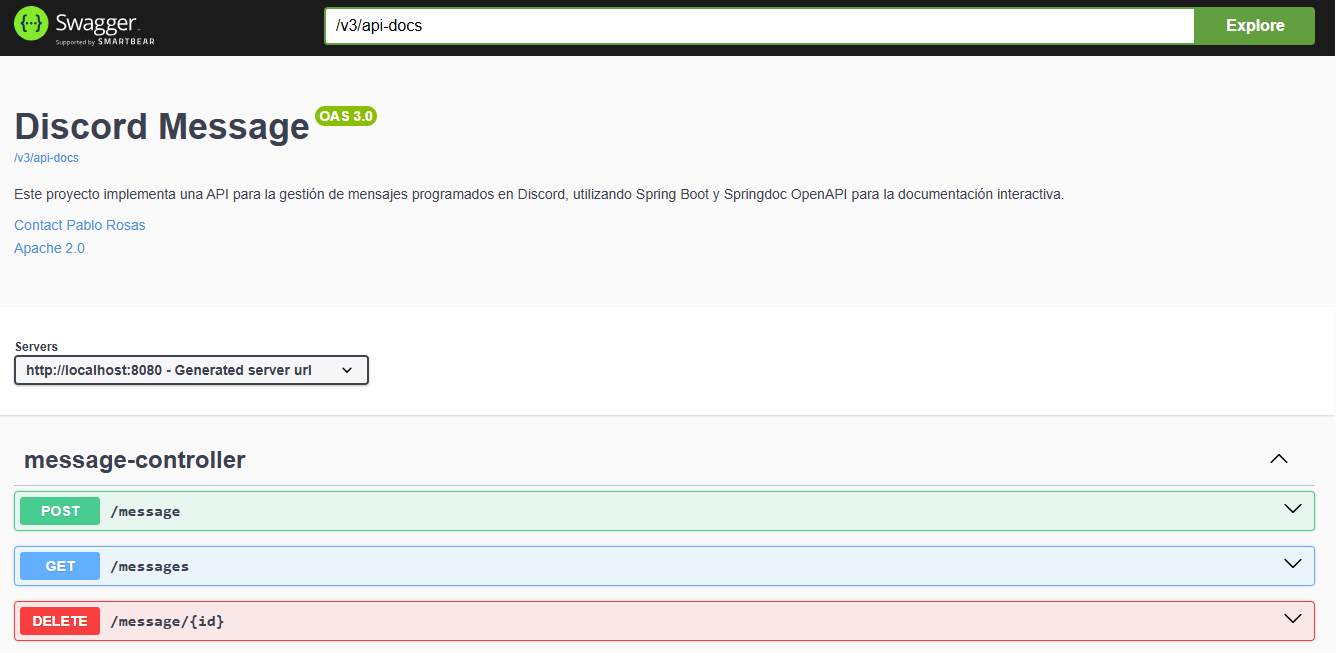
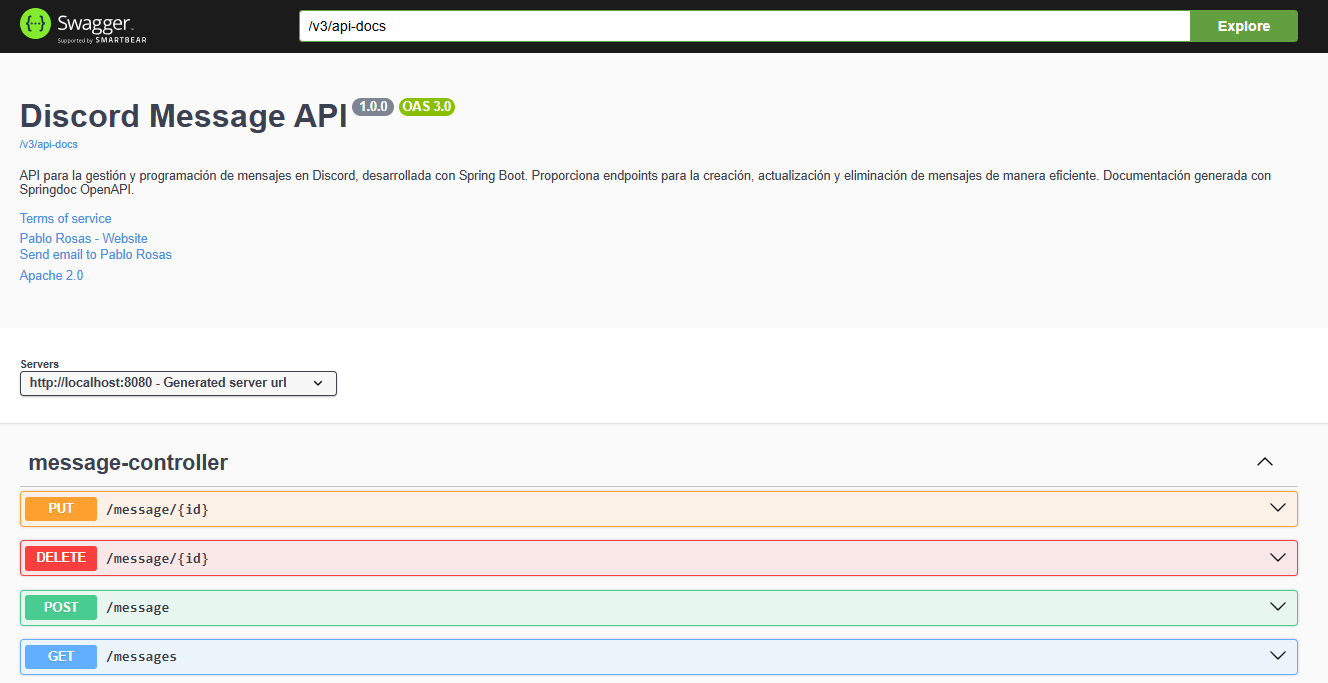
Editar Mensaje - Controller

diff --git a/src/main/resources/static/js/app.js b/src/main/resources/static/js/app.js
@@ -40,6 +40,7 @@ async function loadMessages() {
             <td>${msg.scheduledDate}</td>
             <td>
                 <button class="delete-btn" onclick="deleteMessage(${msg.id})">Eliminar</button>
+
             </td>
         `;
 
@@ -61,6 +62,10 @@ async function deleteMessage(id) {
         showNotification("Error al eliminar el mensaje", "error");
     }
 }
+
+
+
+
 
 function showNotification(message, type) {
     const notificationContainer = document.getElementById("notificationContainer");

diff --git a/src/main/resources/templates/messages.html b/src/main/resources/templates/messages.html
@@ -59,6 +59,7 @@
                 </tbody>
             </table>
         </section>
+
     </main>
 </div>
 

diff --git a/src/main/resources/static/css/styles.css b/src/main/resources/static/css/styles.css
@@ -249,3 +249,5 @@ table th {
 .notification.error {
     background: #f44336;
 }
+
+

diff --git a/src/main/java/com/dev/discord/config/SwaggerConfig.java b/src/main/java/com/dev/discord/config/SwaggerConfig.java
@@ -9,20 +9,26 @@ import org.springframework.context.annotation.Configuration;
 
 @Configuration
 public class SwaggerConfig {
+
     @Bean
-    public OpenAPI customOpenAPI(){
+    public OpenAPI customOpenAPI() {
         return new OpenAPI()
                 .info(new Info()
-                        .title("Discord Message")
-                        .description("Este proyecto implementa una API para la gestión de mensajes programados en Discord, utilizando Spring Boot y Springdoc OpenAPI para la documentación interactiva.")
+                        .title("Discord Message API")
+                        .version("1.0.0")
+                        .description("""
+                                API para la gestión y programación de mensajes en Discord, desarrollada con Spring Boot.
+                                Proporciona endpoints para la creación, actualización y eliminación de mensajes de manera eficiente.
+                                Documentación generada con Springdoc OpenAPI.
+                                """)
+                        .termsOfService("https://github.com/Dev-Asfix/Discord-Message?tab=License-1-ov-file")
                         .contact(new Contact()
                                 .name("Pablo Rosas")
-                                .email("rosasramirez753@gmail.com"))
+                                .email("rosasramirez753@gmail.com")
+                                .url("https://github.com/Dev-Asfix"))
                         .license(new License()
                                 .name("Apache 2.0")
-                                .url("http://api/message/api/licencia"))
-                )
-                ;
+                                .url("https://github.com/Dev-Asfix/Discord-Message?tab=License-1-ov-file"))
+                );
     }
-
 }

diff --git a/src/main/java/com/dev/discord/controllers/MessageController.java b/src/main/java/com/dev/discord/controllers/MessageController.java
@@ -54,4 +54,25 @@ public class MessageController {
         messageRepository.deleteById(id);
         return ResponseEntity.ok("Mensaje eliminado correctamente.");
     }
+
+    @PutMapping("/message/{id}")
+    public ResponseEntity<?> updateMessage(
+            @PathVariable Long id,
+            @Valid @RequestBody DatosRegistroMensaje updatedMessage) {
+
+        Optional<Message> optionalMessage = messageRepository.findById(id);
+        if (optionalMessage.isEmpty()) {
+            return ResponseEntity.status(HttpStatus.NOT_FOUND).body("Mensaje no encontrado");
+        }
+
+        Message existingMessage = optionalMessage.get();
+        existingMessage.setText(updatedMessage.text());
+        existingMessage.setScheduledDate(updatedMessage.scheduledDate());
+
+        Message savedMessage = messageRepository.save(existingMessage);
+        System.out.println("📌 Mensaje actualizado: " + savedMessage.getText() + " a las " + savedMessage.getScheduledDate());
+
+        return ResponseEntity.ok(savedMessage);
+    }
+
 }
